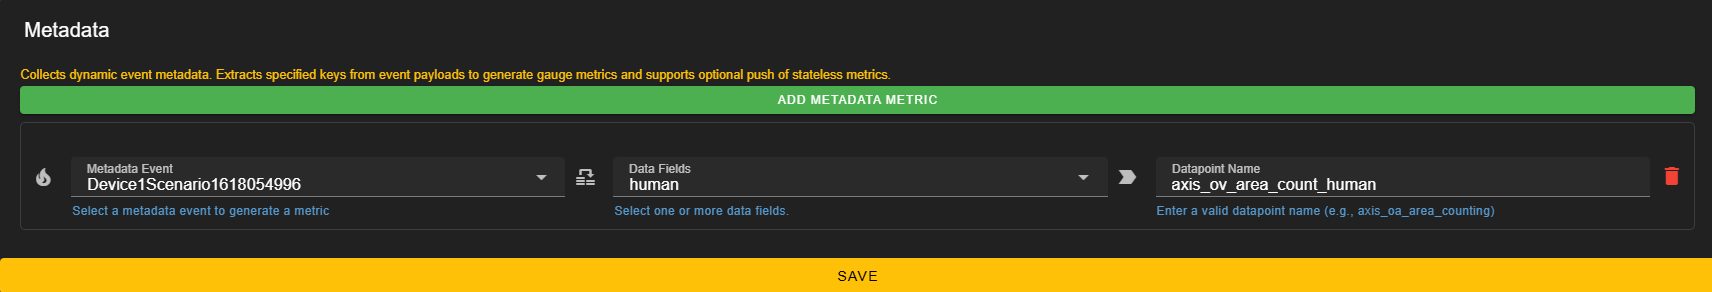
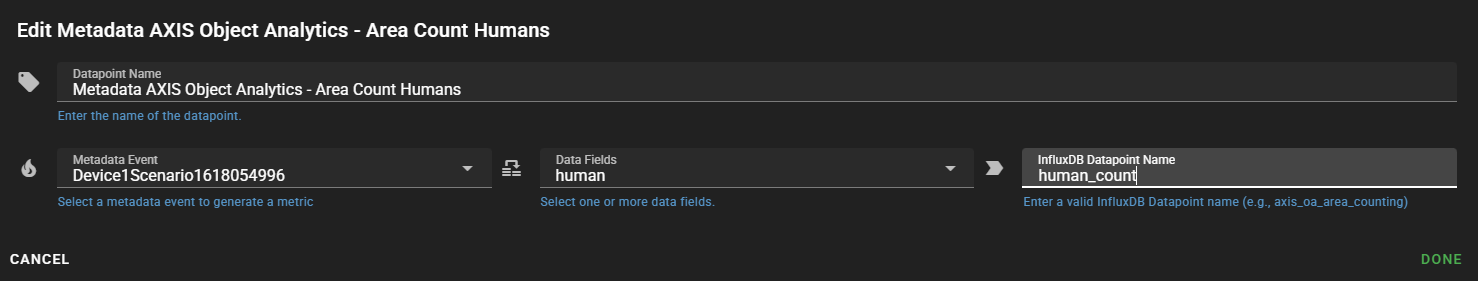
V0.6.9

diff --git a/docs/influxdb_push.md b/docs/influxdb_push.md
@@ -7,17 +7,19 @@
 
 This feature introduces two distinct approaches for data collection:
 
-- **Metrics:**  
-  All non metadata metrics have an interval-based configuration. You can specify how frequently each metric should be collected, making it easy to monitor performance indicators such as CPU usage, memory, or temperature on a regular schedule.
+- **Non-Metadata Data Points:**  
+  All non-metadata data points have an interval-based configuration. You can specify how frequently each datapoint/metric is collected.
 
-- **Metadata:**  
-  Metadata is now event-based. Unlike metrics, metadata is not collected on a fixed interval but is triggered by specific events. Moreover, you can add as many metadata events as you want, allowing you to capture detailed information exactly when it matters.
+    !!! Note
+        Each non-metadata data point can be added only once.
+
+- **Metadata Data Points:**  
+  Metadata data points are event-based. They are not collected on a fixed interval but are triggered by specific events.
+
+    !!! Tip
+        You can add as many metadata events as you want, allowing you to capture detailed information exactly when it matters.
 
 ---
-
-#### Interval-Based Settings
-Each non metadata metric includes an interval setting where you can define the frequency of data capture (e.g., every 5 seconds, 10 seconds, etc.).
-
 
 #### Use it with Grafana
 
@@ -32,48 +34,96 @@ The primary idea behind this feature is to use it with Grafana, allowing you to 
 - **InfluxDB Bucket:** You need an InfluxDB bucket.
 - **InfluxDB Org:** You need the name of your InfluxDB organization.
 
+#### Data Point Buttons
 
-#### Configure non Metadata Metrics
+**Edit Data Point**
 
-Enable or disable the metric via the switch, and open the configuration via the vertical 3 dots.
-[![](images/configenable.PNG)](images/configenable.PNG)
+![](images/edit.PNG)
+
+**Remove Data Point**
+
+![](images/delete.PNG)
+
+#### Configure Non-Metadata Data Points
+
+
+##### Add Non-Metadata Data Points
+
+!!! tip "Examples of Non-Metadata Data Points"
+    - CPU
+    - Disk
+    - Uptime
+    - etc.
+
+Click the `ADD DATAPOINT` button to open the data point adding menu.
+![](images/add.PNG)
+
+Select the data point to add.
+![](images/menu.PNG)
+
+!!! warning "Note"
+    If any data point is grayed out (disabled), it has already been added and cannot be added twice.
+
+
+##### Configure Non-Metadata Data Points
+To configure the data point, click on the `Edit Data Point` button.
 
 - **Set Interval:**  
-    For each metric, define the desired interval at which data should be pushed to InfluxDB.
-- **Save Settings:**  
-    Confirm and save your interval configurations for each metric.
+  Define the desired interval at which data should be pushed to InfluxDB.
 
-#### Configure Metadata Events
+Click the `DONE` button when you have finished, then click the `SAVE` button.
 
-Enable or disable the metadata via the switch, and open the configuration via the vertical 3 dots.
-[![](images/configenable.PNG)](images/configenable.PNG)
 
-- **Add Metadata Event:**  
-    Click on the option to add a new metadata event.
+#### Configure Metadata Data Points
+
+##### Add Metadata Data Points
+Click the `ADD DATAPOINT` button to open the data point adding menu and select `Metadata`.
+
+![](images/add.PNG)
+
+![](images/menu.PNG)
+
+After adding a new metadata datapoint, you will see that the configuration is initially incomplete. 
+
+[![](images/notconf.PNG)](images/notconf.PNG)
+
+##### Configure Metadata Data Points
+
+Open the configuration via the Edit button.
+
+![](images/edit.PNG)
+
+- **Data Point Name:**  
+  For better differentiation in the configuration list, you can change the name of the data point.
 - **Select Trigger:**  
-    Choose the event that will trigger the metadata capture (e.g., sensor threshold exceeded, error event, etc.).
+  Choose the event that will trigger the metadata capture (e.g., sensor threshold exceeded, error event, etc.).
 - **Define Metadata Fields:**  
-    Specify which metadata fields should be included in the payload.
-- **Define Datapoint Name:**  
-    The datapoint name is the key, with which we store the data in InfluxDB.
+  Specify which metadata fields should be included in the payload.
+- **Define InfluxDB Data Point Name:**  
+  The InfluxDB data point name is the key with which the data is stored in InfluxDB.
 - **Repeat:**  
-    Add as many metadata events as needed.
+  Add as many metadata events as needed.
 - **Save Configuration:**  
-    Save your metadata settings once you have added all desired events.
+  After finishing the configuration, don't forget to click the `SAVE` button.
 
-##### Metadata Day Night Example 
-Push the Day Night metadata event
-[![](images/ov.PNG)](images/ov.PNG)
 
-##### Metadata AXIS Object Analytics - Area Count Humans Example
-Push the Day Night metadata event
+##### Metadata Configuration Example
+
+**Metadata Day Night**  
+[![](images/dn.PNG)](images/dn.PNG)
+
+**Metadata AXIS Object Analytics - Area Count Humans Example**  
+Push the Day Night metadata event  
 [![](images/human.PNG)](images/human.PNG)
 
+The final configuration would look like this:  
+[![](images/both.PNG)](images/both.PNG)
 
 
 #### Grafana and InfluxDB Integration
 
-This guide shows you how to integrate Grafana with InfluxDB using the **Flux** query language. Follow the steps below to set up your datasource and create a dashboard for visualizing metrics such as CPU usage.
+This guide shows you how to integrate Grafana with InfluxDB using the **Flux** query language. 
+Follow the steps below to set up your datasource and create a dashboard for visualizing data/metrics from your AXIS Camera.
 
 ---
 
@@ -133,7 +183,7 @@ Navigate to the dashboard section in Grafana and add a new visualization. For ex
 
 ##### Extracting Flux Scripts from InfluxDB Data Explorer for Grafana
 
-Use the InfluxDB Data Explorer to inspect the metrics and use the query builder in combinitation, to switch afterwards to script editor mode to copy the flux script for grafana.
+Use the InfluxDB Data Explorer to inspect the data and use the query builder in combinitation, to switch afterwards to script editor mode to copy the flux script for grafana.
 [![](images/explore.PNG)](images/explore.PNG)
 
 For example, let's locate our metadata event **device_io_virtualport** that we previously configured and executed to ensure an entry exists in the database:

diff --git a/docs/change.md b/docs/change.md
@@ -9,6 +9,19 @@
 
 ---
 
+##### V0.6.9 – 04.04.2025
+- **I:** Improve InfluxDB Feature configuration
+- **I:** Fix InfluxDB connection test, org and bucket must belong
+- **B:** Fix dataless events in when using in InfluxDB Feature
+- **I:** Add version field to JSON configurations for futher upgrade between versions
+   
+---
+
+##### V0.6.8 – 04.04.2025
+- **I:** Add triggerd based deletion in parking times
+  
+---
+
 ##### V0.6.7 – 03.04.2025
 - **I:** Live log, better visibility
   
